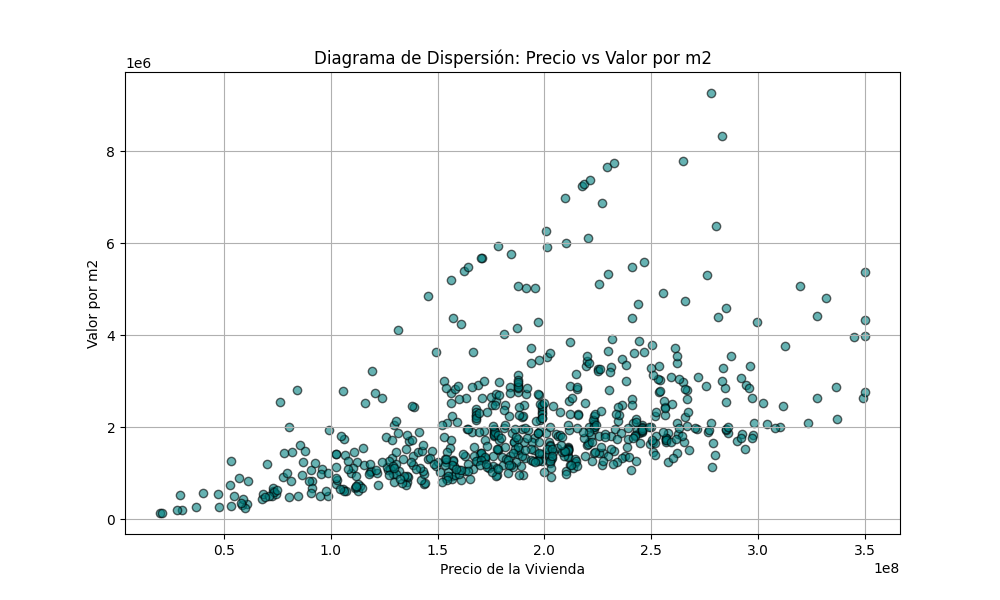
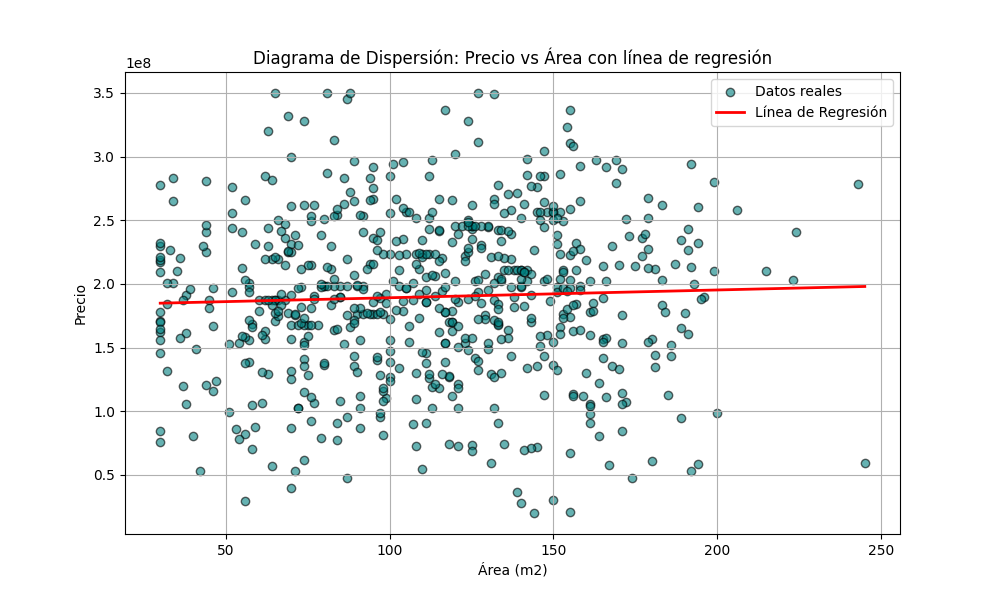
regresion lineal

diff --git a/templates/dashboard.html b/templates/dashboard.html
@@ -74,19 +74,24 @@
                     </div>
                     <div class="card-body">
                         <div class="row">
-                            <div class="col-md-4 mb-2">
+                            <div class="col-md-3 mb-2">
                                 <a href="/tabla" class="btn btn-outline-primary w-100">
                                     <i class="bi bi-table me-2"></i>Ver Todos los Datos
                                 </a>
                             </div>
-                            <div class="col-md-4 mb-2">
+                            <div class="col-md-3 mb-2">
                                 <a href="/grafico" class="btn btn-outline-success w-100">
                                     <i class="bi bi-graph-up me-2"></i>Análisis Gráfico
                                 </a>
                             </div>
-                            <div class="col-md-4 mb-2">
+                            <div class="col-md-3 mb-2">
                                 <a href="/resumen" class="btn btn-outline-info w-100">
                                     <i class="bi bi-bar-chart me-2"></i>Ver Resumen
+                                </a>
+                            </div>
+                            <div class="col-md-3 mb-2">
+                                <a href="/modelo" class="btn btn-outline-warning w-100">
+                                    <i class="bi bi-clipboard-data me-2"></i>Ver Modelo
                                 </a>
                             </div>
                         </div>

diff --git a/templates/header.html b/templates/header.html
@@ -41,6 +41,11 @@
                             <i class="bi bi-bar-chart me-1"></i>Resumen
                         </a>
                     </li>
+                    <li class="nav-item">
+                        <a class="nav-link" href="/modelo">
+                            <i class="bi bi-clipboard-data me-1"></i>Modelo
+                        </a>
+                    </li>
                 </ul>
             </div>
         </div>

diff --git a/templates/modelo.html b/templates/modelo.html
@@ -6,6 +6,9 @@
   <link rel="stylesheet" href="https://cdn.jsdelivr.net/npm/bootstrap@5.3.0/dist/css/bootstrap.min.css">
 </head>
 <body class="bg-light">
+
+  {% include 'header.html' %}
+
   <div class="container mt-5">
     <h2 class="text-center mb-4">Resultados de la Regresión Lineal</h2>
     <ul class="list-group mb-4">

diff --git a/Controllers/visualizer.py b/Controllers/visualizer.py
@@ -2,22 +2,36 @@ import pandas as pd
 import matplotlib.pyplot as plt
 import matplotlib
 matplotlib.use('Agg') 
+from sklearn.linear_model import LinearRegression
+import numpy as np
 
 class Visualizer:
-    def __init__(self, ruta_datos):
-        self.ruta_datos = ruta_datos
+    def __init__(self, datos):
+        self.datos = datos
 
     def generar_dispersion(self):
         try:
-            datos = pd.read_excel(self.ruta_datos, header=1, engine='openpyxl')
-            datos['valor_m2'] = datos['precio'] / datos['area']
+            datos = self.datos.copy()
+            datos = datos.dropna(subset=['precio', 'area'])
 
             plt.figure(figsize=(10, 6))
-            plt.scatter(datos['precio'], datos['valor_m2'], alpha=0.6, c='teal', edgecolors='k')
-            plt.title("Diagrama de Dispersión: Precio vs Valor por m2")
-            plt.xlabel("Precio de la Vivienda")
-            plt.ylabel("Valor por m2")
+            plt.scatter(datos['area'], datos['precio'], alpha=0.6, c='teal', edgecolors='k', label='Datos reales')
+
+            X = datos[['area']]
+            y = datos['precio']
+            modelo = LinearRegression()
+            modelo.fit(X, y)
+
+            x_line = np.linspace(X['area'].min(), X['area'].max(), 100).reshape(-1, 1)
+            y_line = modelo.predict(x_line)
+
+            plt.plot(x_line, y_line, color='red', linewidth=2, label='Línea de Regresión')
+            plt.title("Diagrama de Dispersión: Precio vs Área con línea de regresión")
+            plt.xlabel("Área (m2)")
+            plt.ylabel("Precio")
+            plt.legend()
             plt.grid(True)
+
             plt.savefig('static/dispersion.png')
             plt.close()
         except Exception as e:
